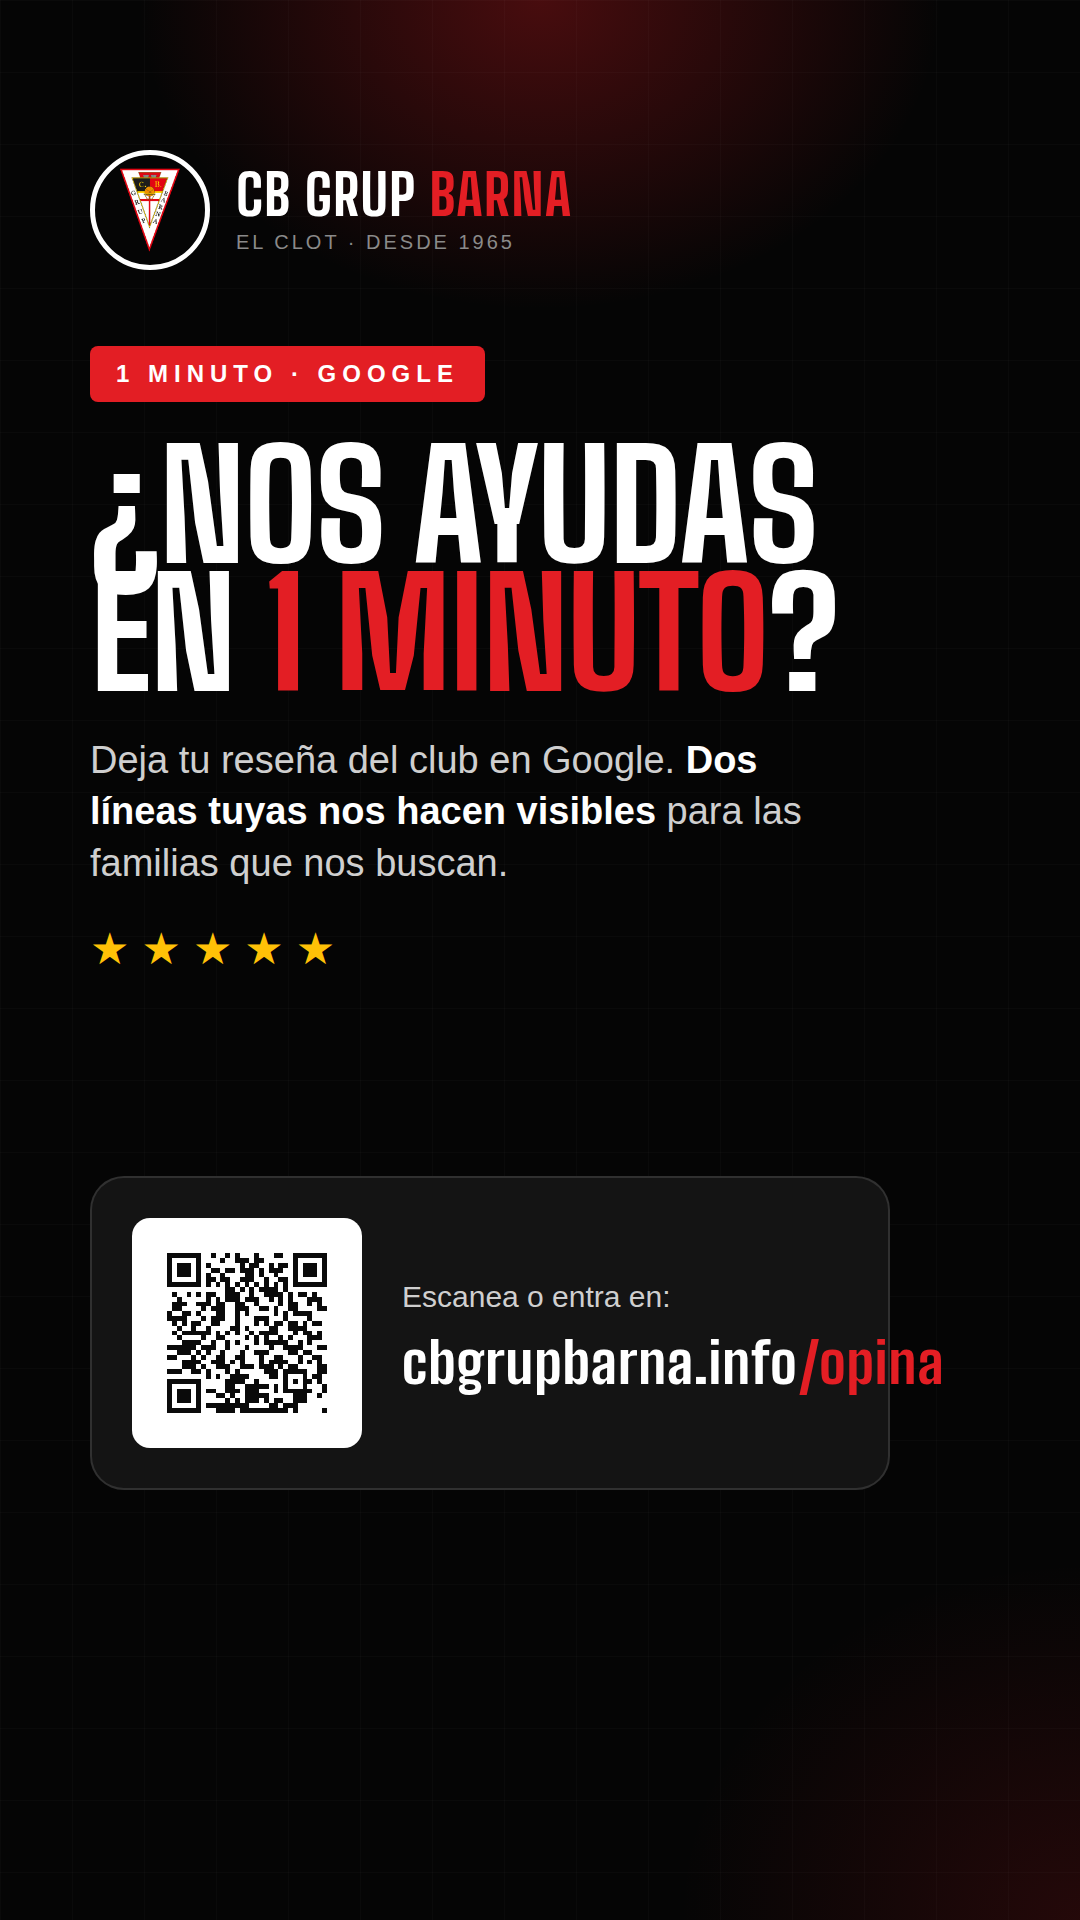
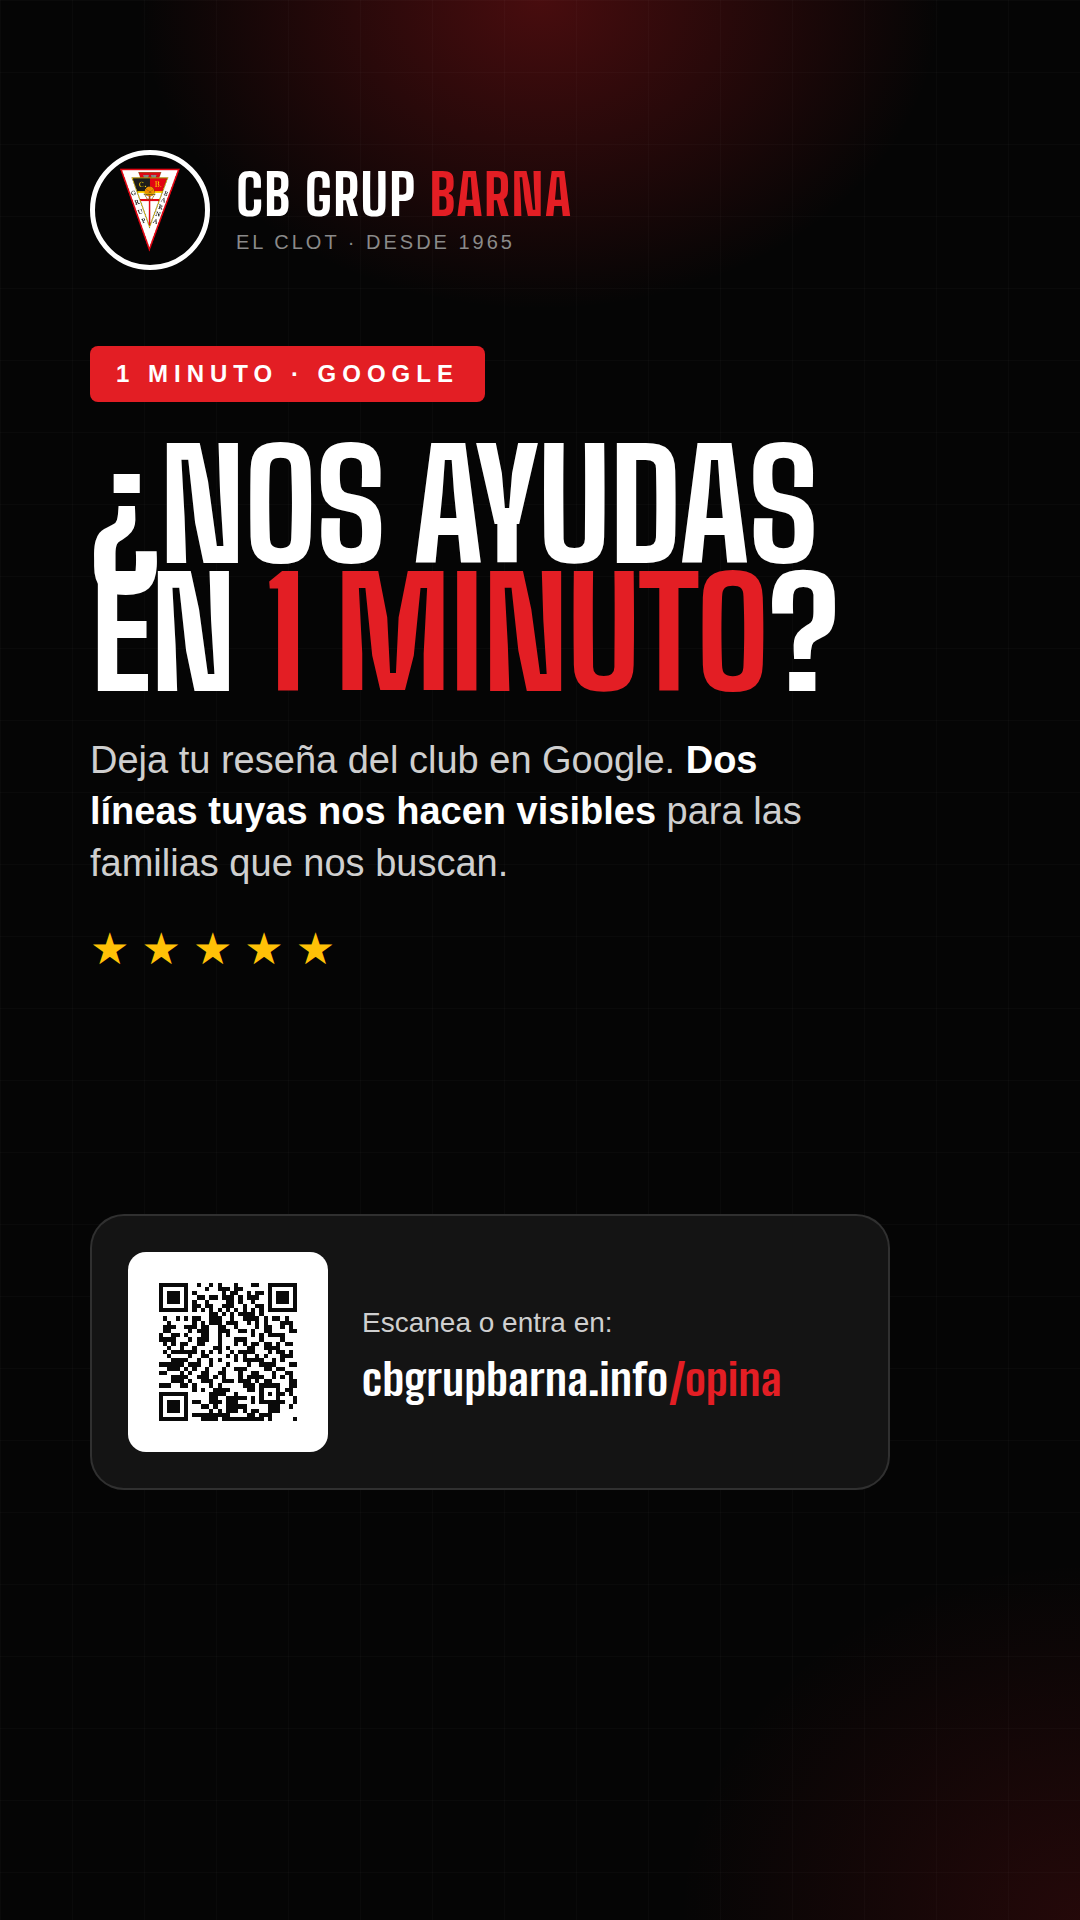
opina: la URL cap sencera dins la targeta de la story
A 56 px la linia cbgrupbarna.info/opina sortia de la targeta i envaia la
franja dreta, on Instagram posa els seus botons: "/opina" quedava tapat.
Es redueix el QR a 200 px i la URL a 44 px, amb nowrap, perque la peca
quedi sencera dins la zona segura. Regenerades les dues stories.

Claude-Session: https://claude.ai/code/session_01EhFdR8TQxWK6Yic3JRF25p

Changed region(s): [[0.1222, 0.625, 0.8861, 0.7812], [0.0917, 0.6562, 0.1222, 0.75]]

diff --git a/opina/print/story-1080x1920.html b/opina/print/story-1080x1920.html
@@ -41,12 +41,15 @@
   .lead{font-size:38px;line-height:1.35;color:#cfcfcf;margin-top:38px;max-width:730px}
   .lead b{color:#fff}
 
-  .card{margin-top:auto;display:flex;align-items:center;gap:40px;
-        background:#141414;border:2px solid rgba(255,255,255,.12);border-radius:34px;padding:40px}
-  .card .qr{background:#fff;border-radius:18px;padding:16px;width:230px;flex:none}
+  .card{margin-top:auto;display:flex;align-items:center;gap:34px;
+        background:#141414;border:2px solid rgba(255,255,255,.12);border-radius:34px;padding:36px}
+  .card .qr{background:#fff;border-radius:18px;padding:14px;width:200px;flex:none}
   .card .qr img{width:100%;display:block}
-  .card .txt .st{font-size:30px;color:#cfcfcf;line-height:1.45;margin-bottom:16px}
-  .card .txt .url{font-family:'CBGB Display',Impact,sans-serif;font-size:56px;letter-spacing:1px;line-height:1}
+  .card .txt{min-width:0}
+  .card .txt .st{font-size:28px;color:#cfcfcf;line-height:1.45;margin-bottom:14px}
+  /* La URL ha de cabre sencera dins la targeta: no pot sortir cap a la
+     franja dreta, que és on Instagram posa els seus botons. */
+  .card .txt .url{font-family:'CBGB Display',Impact,sans-serif;font-size:44px;letter-spacing:.5px;line-height:1;white-space:nowrap}
   .card .txt .url span{color:#E31E24}
   .stars{color:#FFC107;font-size:44px;letter-spacing:12px;margin-top:34px}
 </style>
